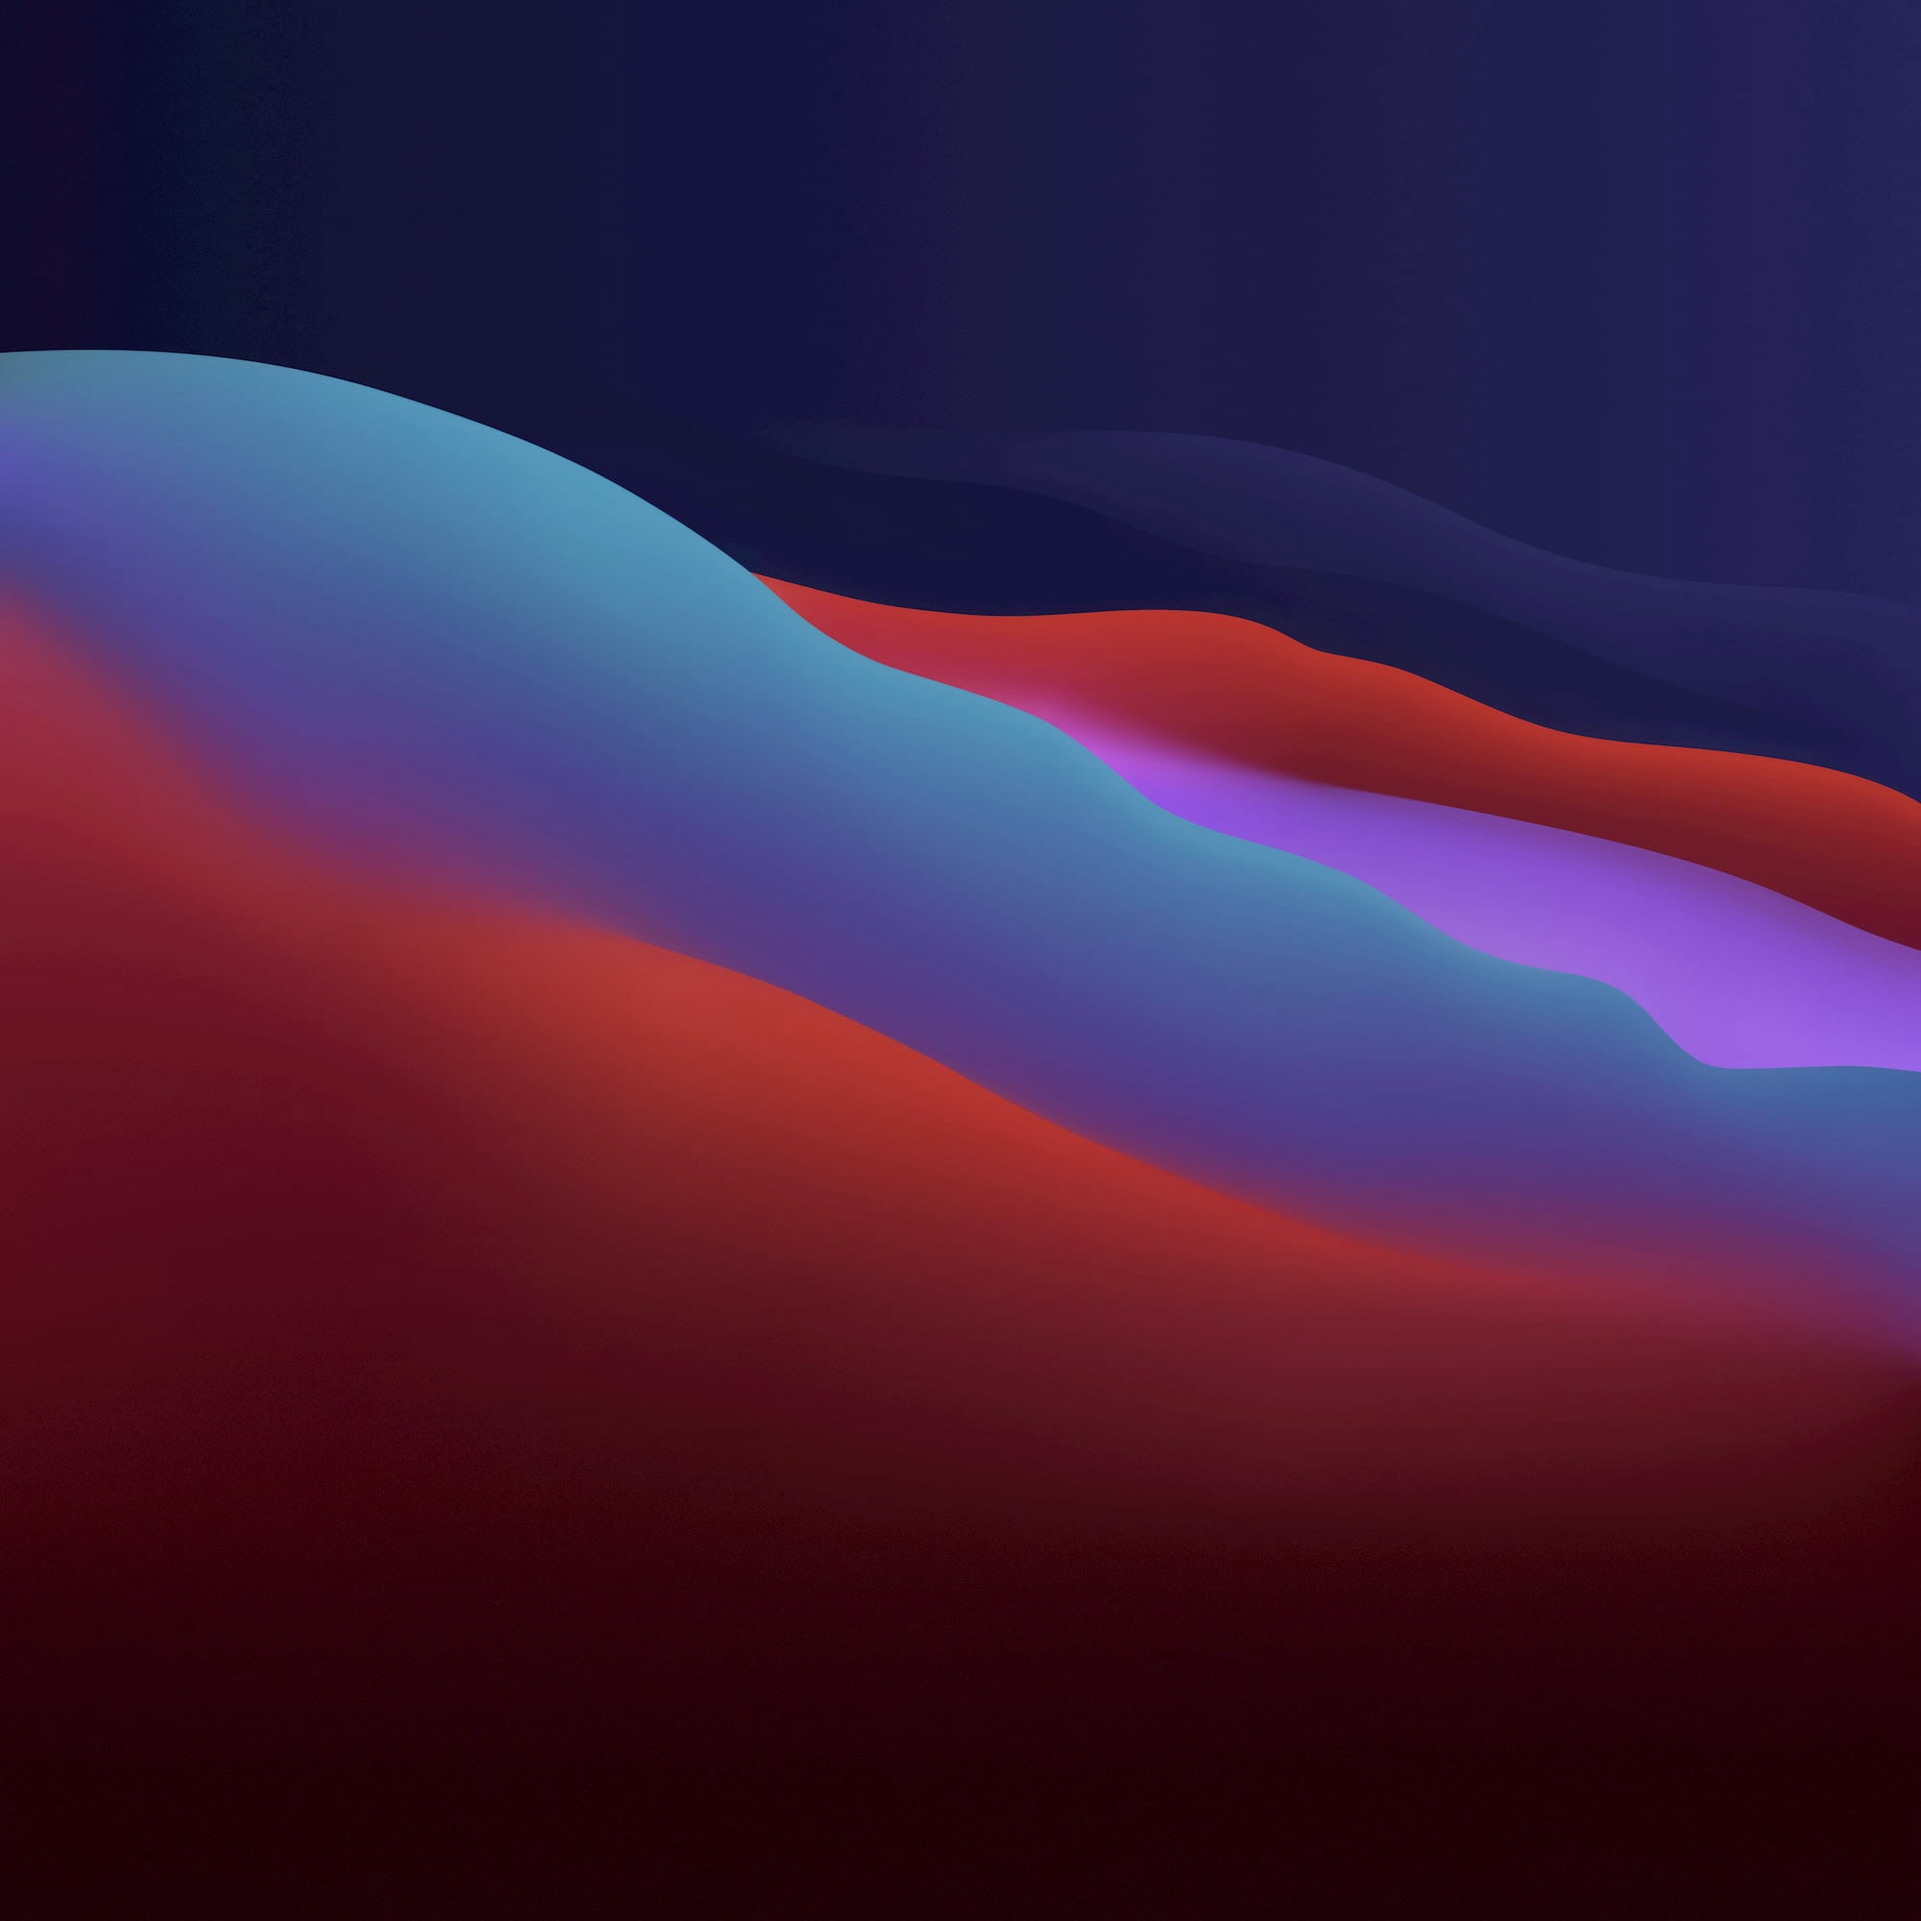
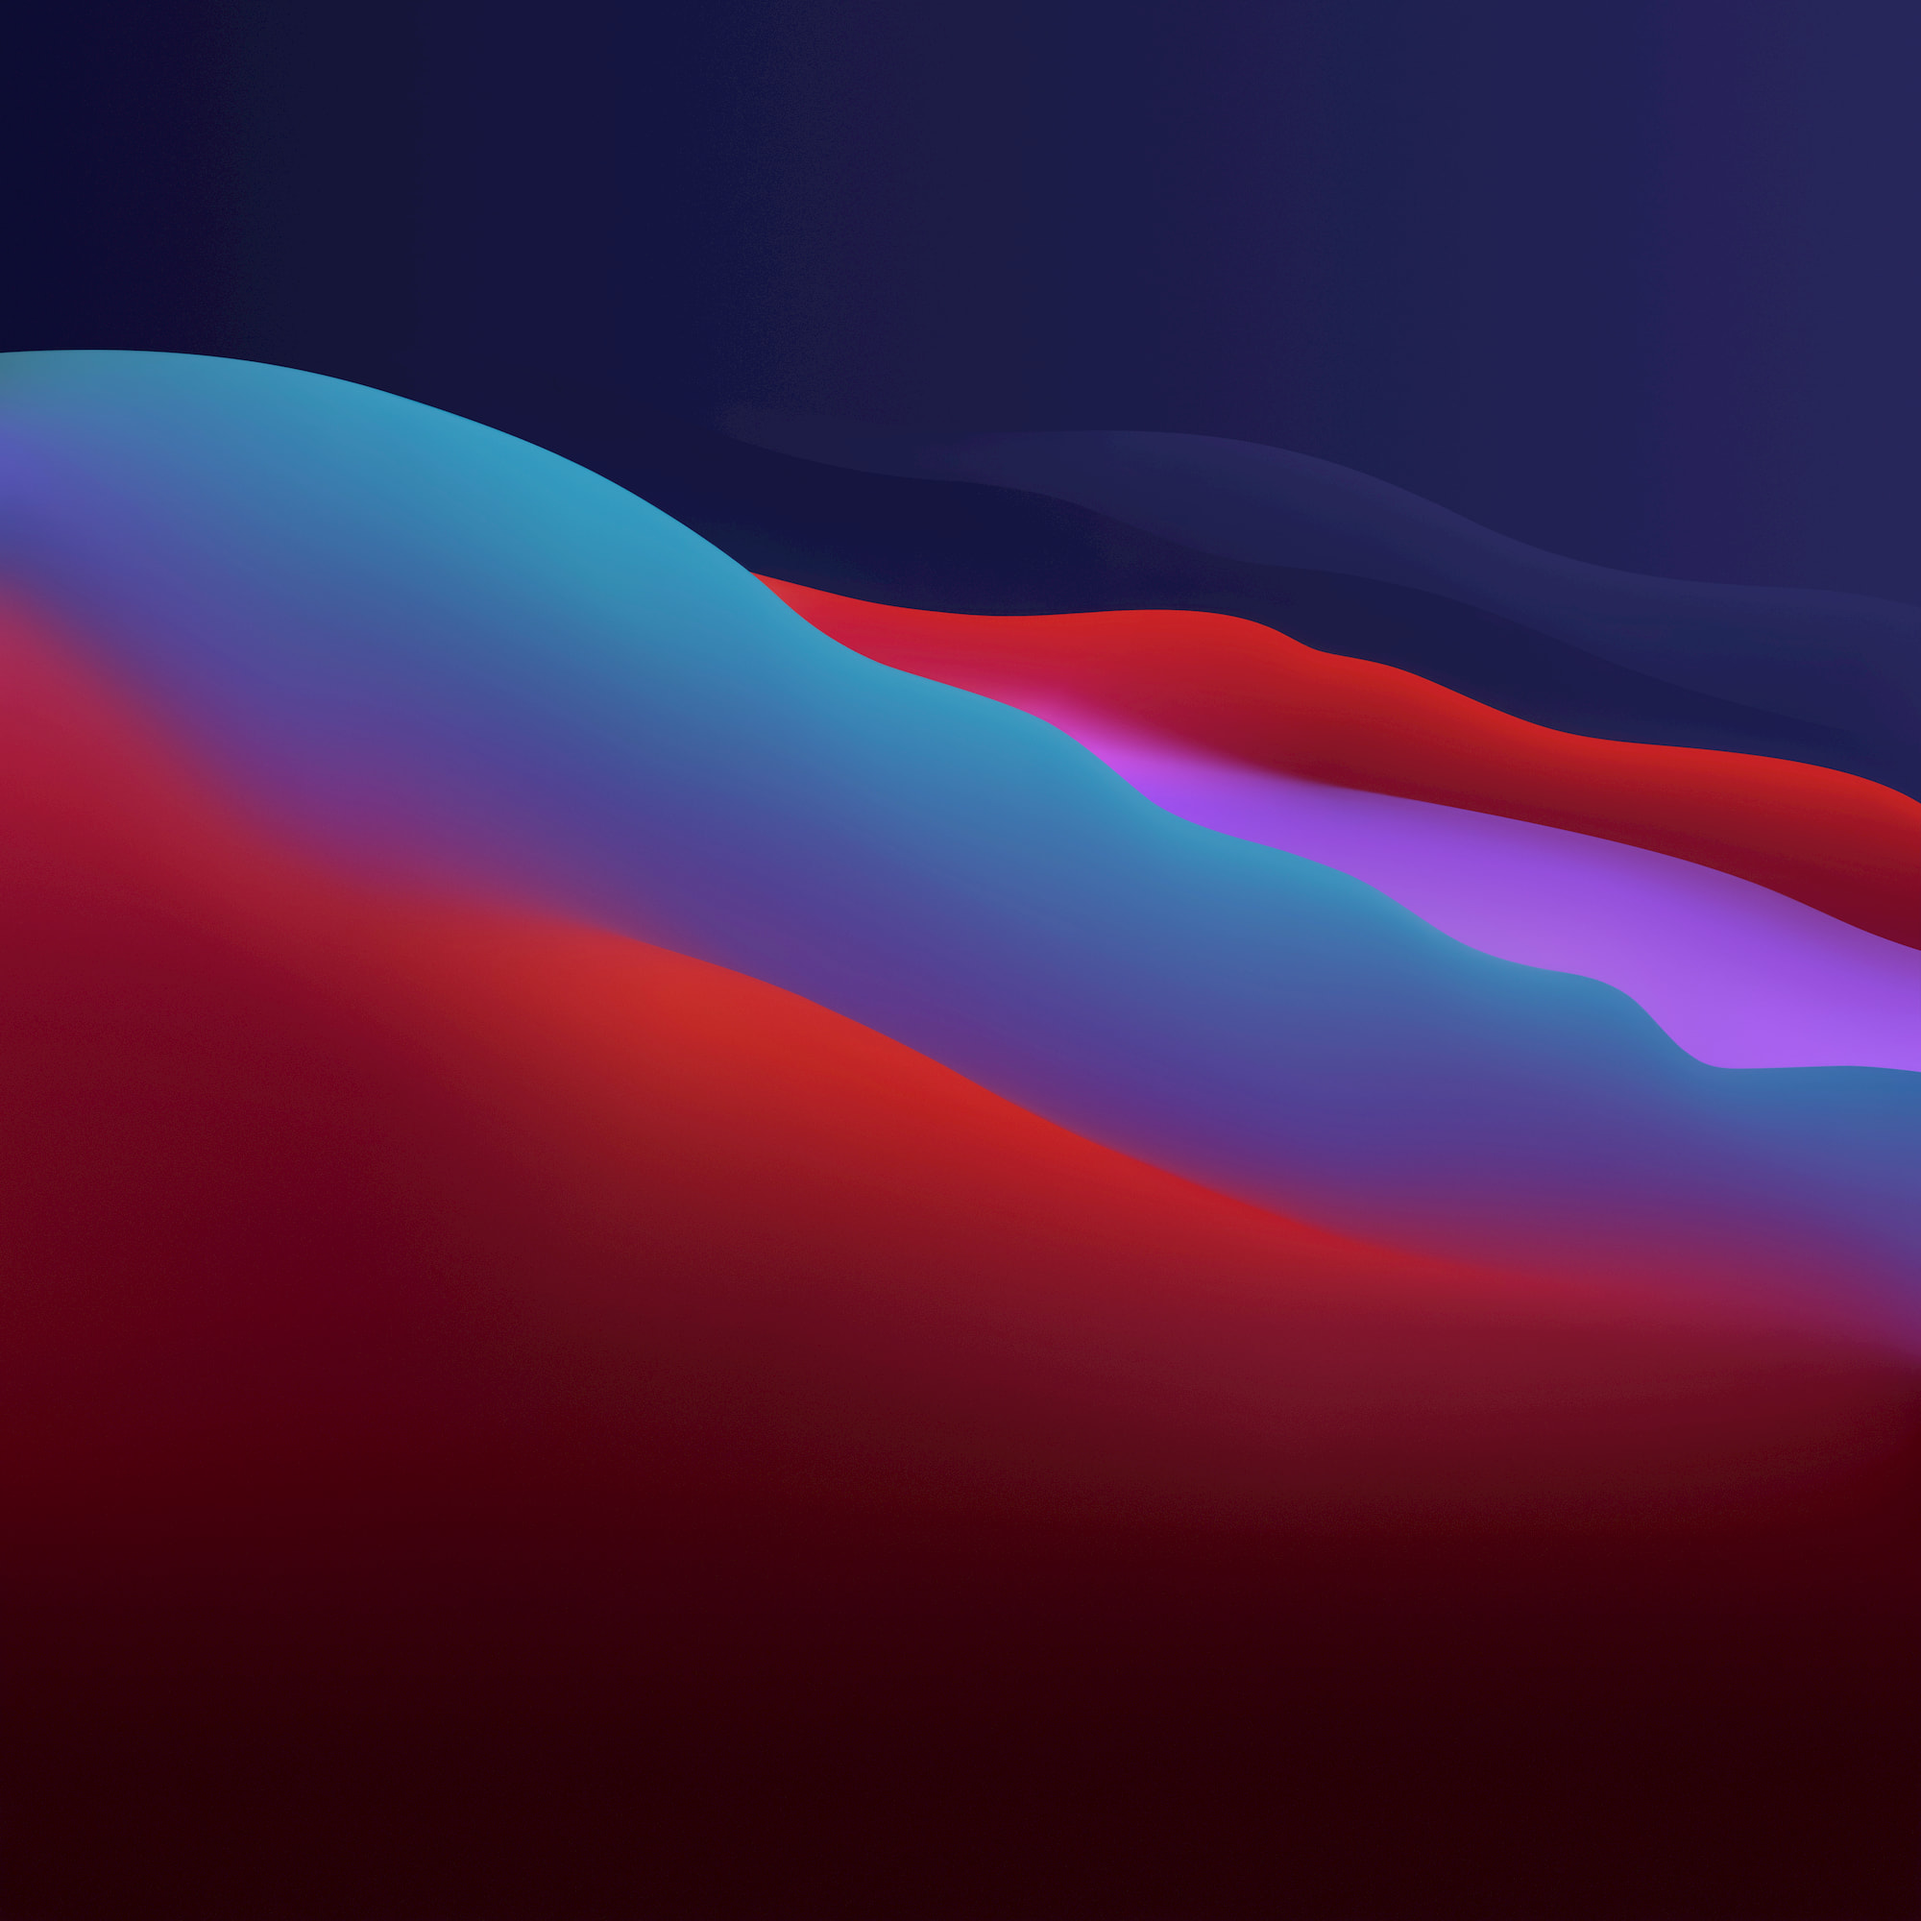
Update wallpapers

Changed region(s): [[0.155, 0.186, 0.62, 0.434]]

diff --git a/src/views/desktop/Desktop.tsx b/src/views/desktop/Desktop.tsx
@@ -2,7 +2,7 @@ import { Provider } from 'jotai';
 import React from 'react';
 import styled from 'styled-components';
 import { Reset } from 'styled-reset';
-import DefaultBackground from '__/assets/wallpapers/3-light.jpg';
+import DefaultBackground from '__/assets/wallpapers/3-2.jpg';
 import { Dock } from '__/components/dock/Dock';
 import { MenuBar } from '__/components/menubar/MenuBar';
 import { GlobalProvider } from '__/global-provider';
